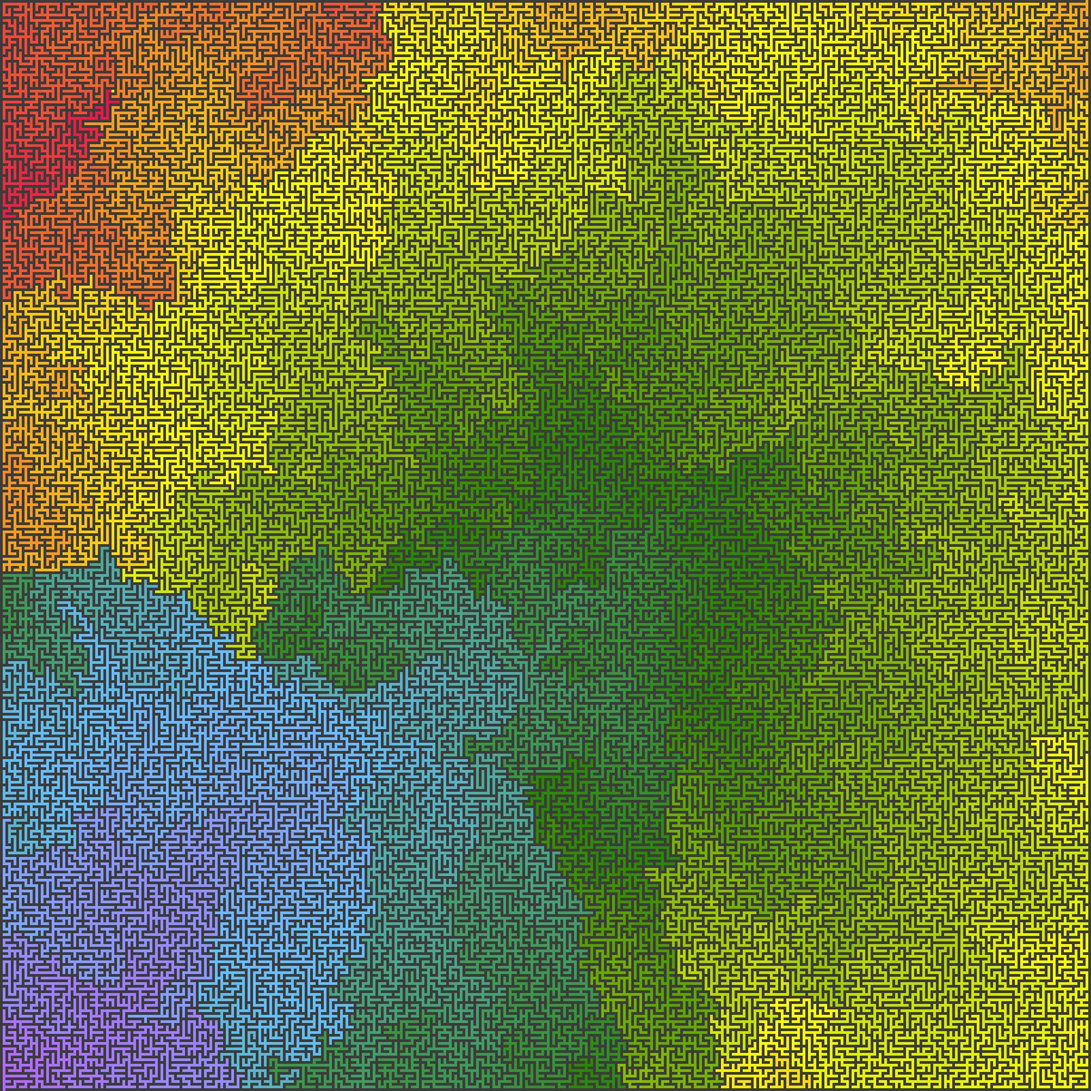
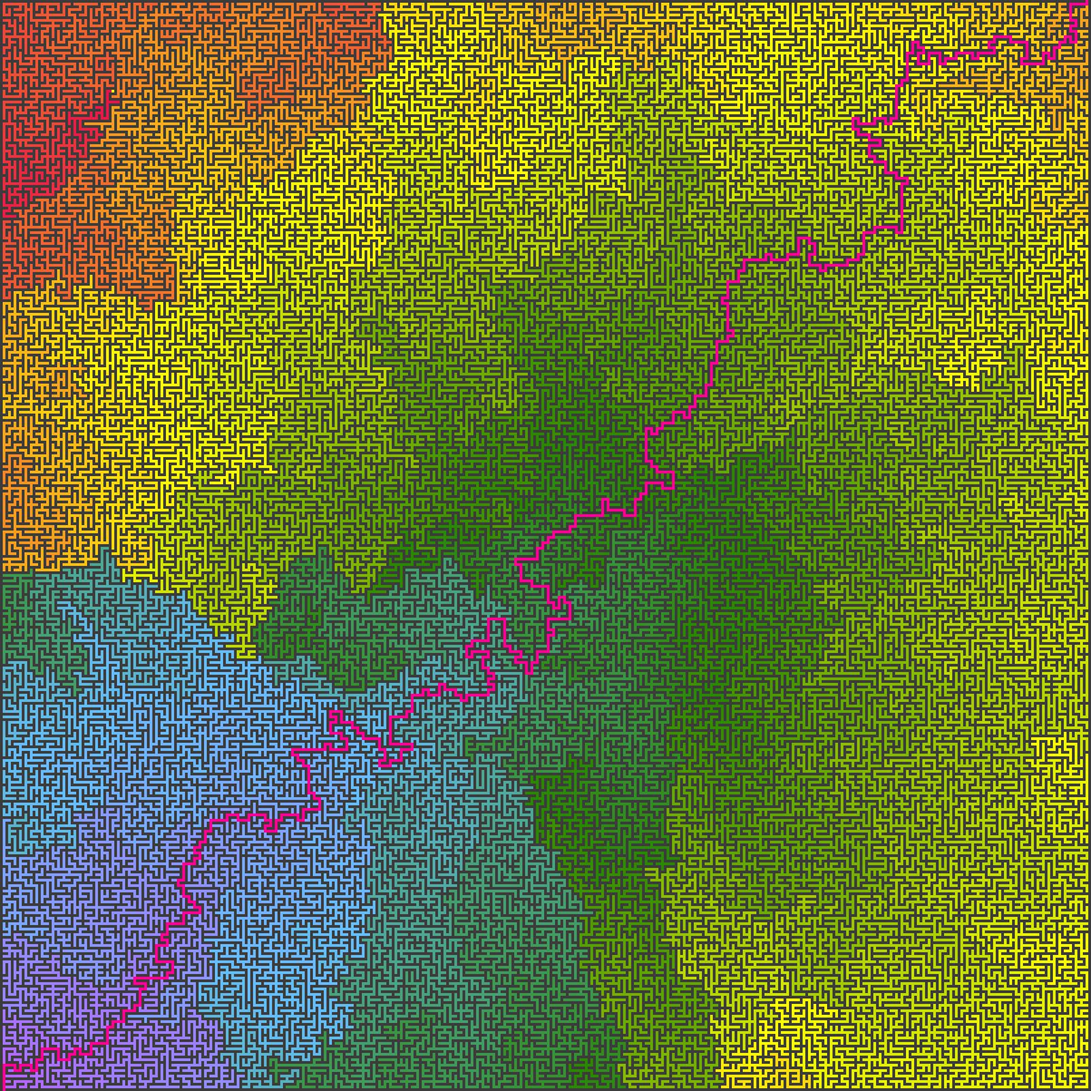
fixed depth map

diff --git a/lib/meiro.py b/lib/meiro.py
@@ -491,6 +491,8 @@ class SolveMeiro(object):
                 img2.putpixel((x,y), self.gradation(i, maxdepth))
             else:
                 img2.putpixel((x,y), (255,255,255))
+        if self.intersections:
+            self.tploop(self.goal, img2)
         img2 = img2.resize((self.getmgnx(), self.getmgny()))
         img2.save(self.filename.replace(".jpg", "_depthmap.jpg"))
         print('[success] saved depth map.')
